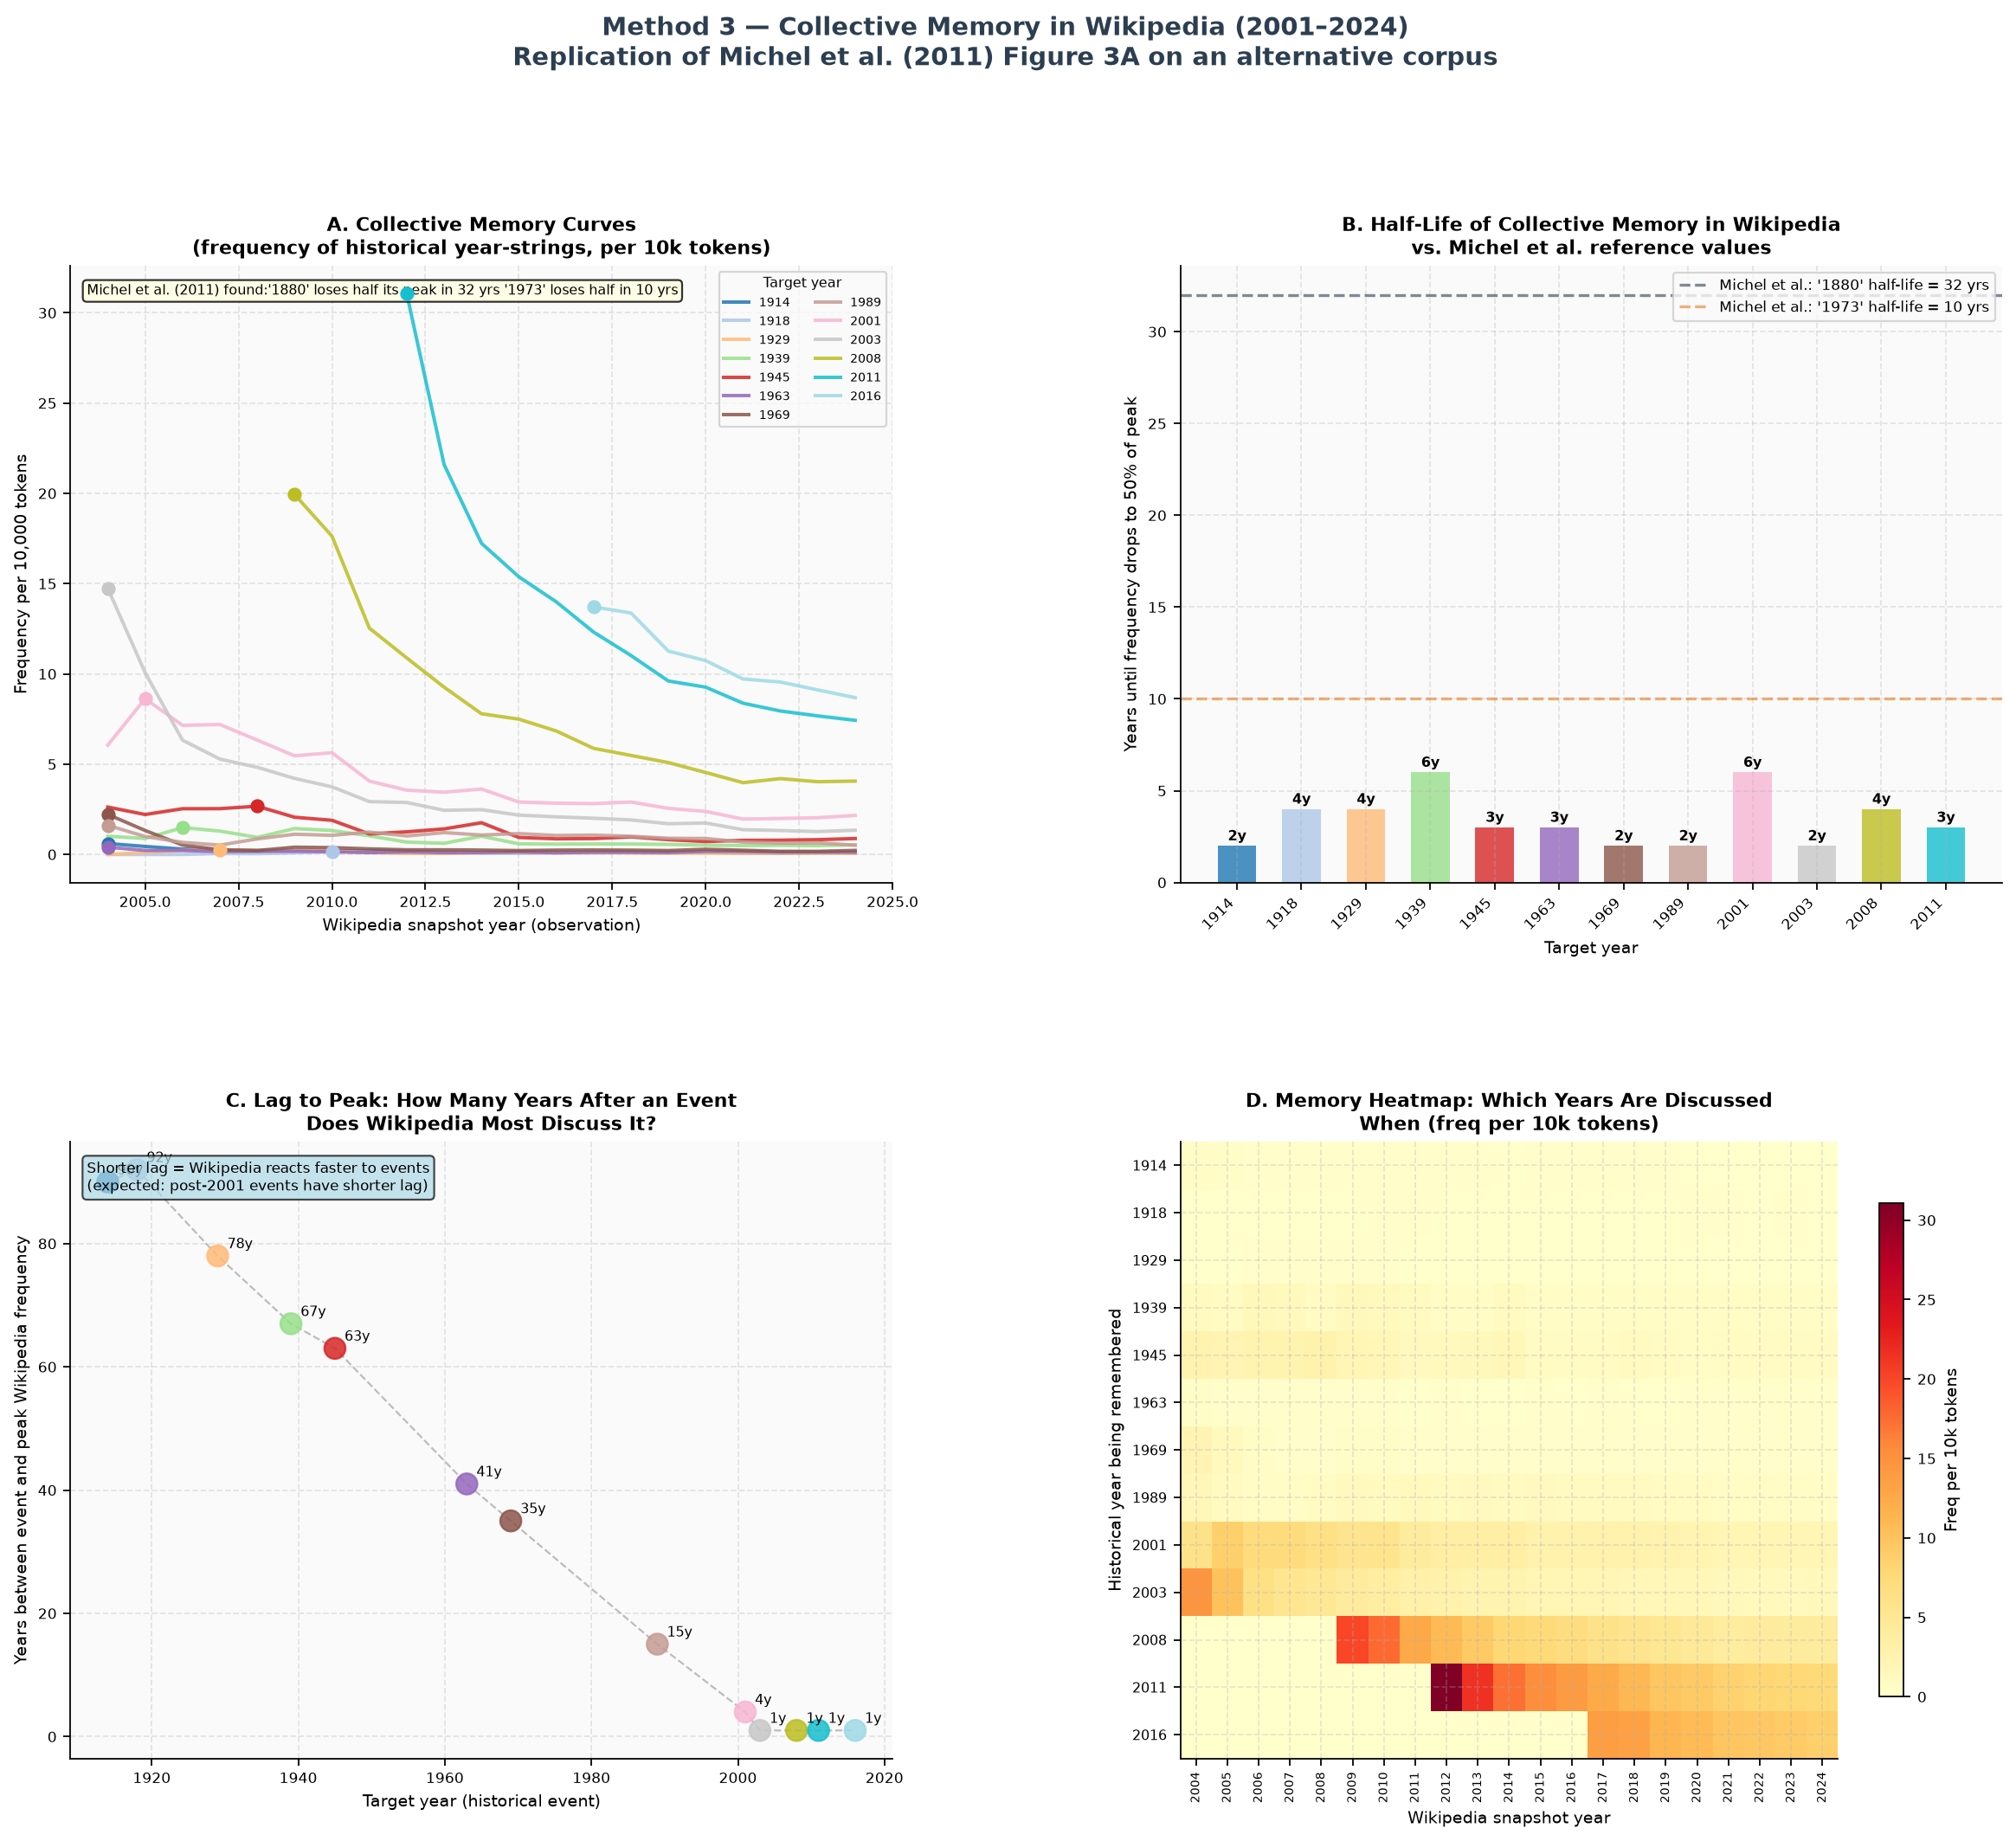
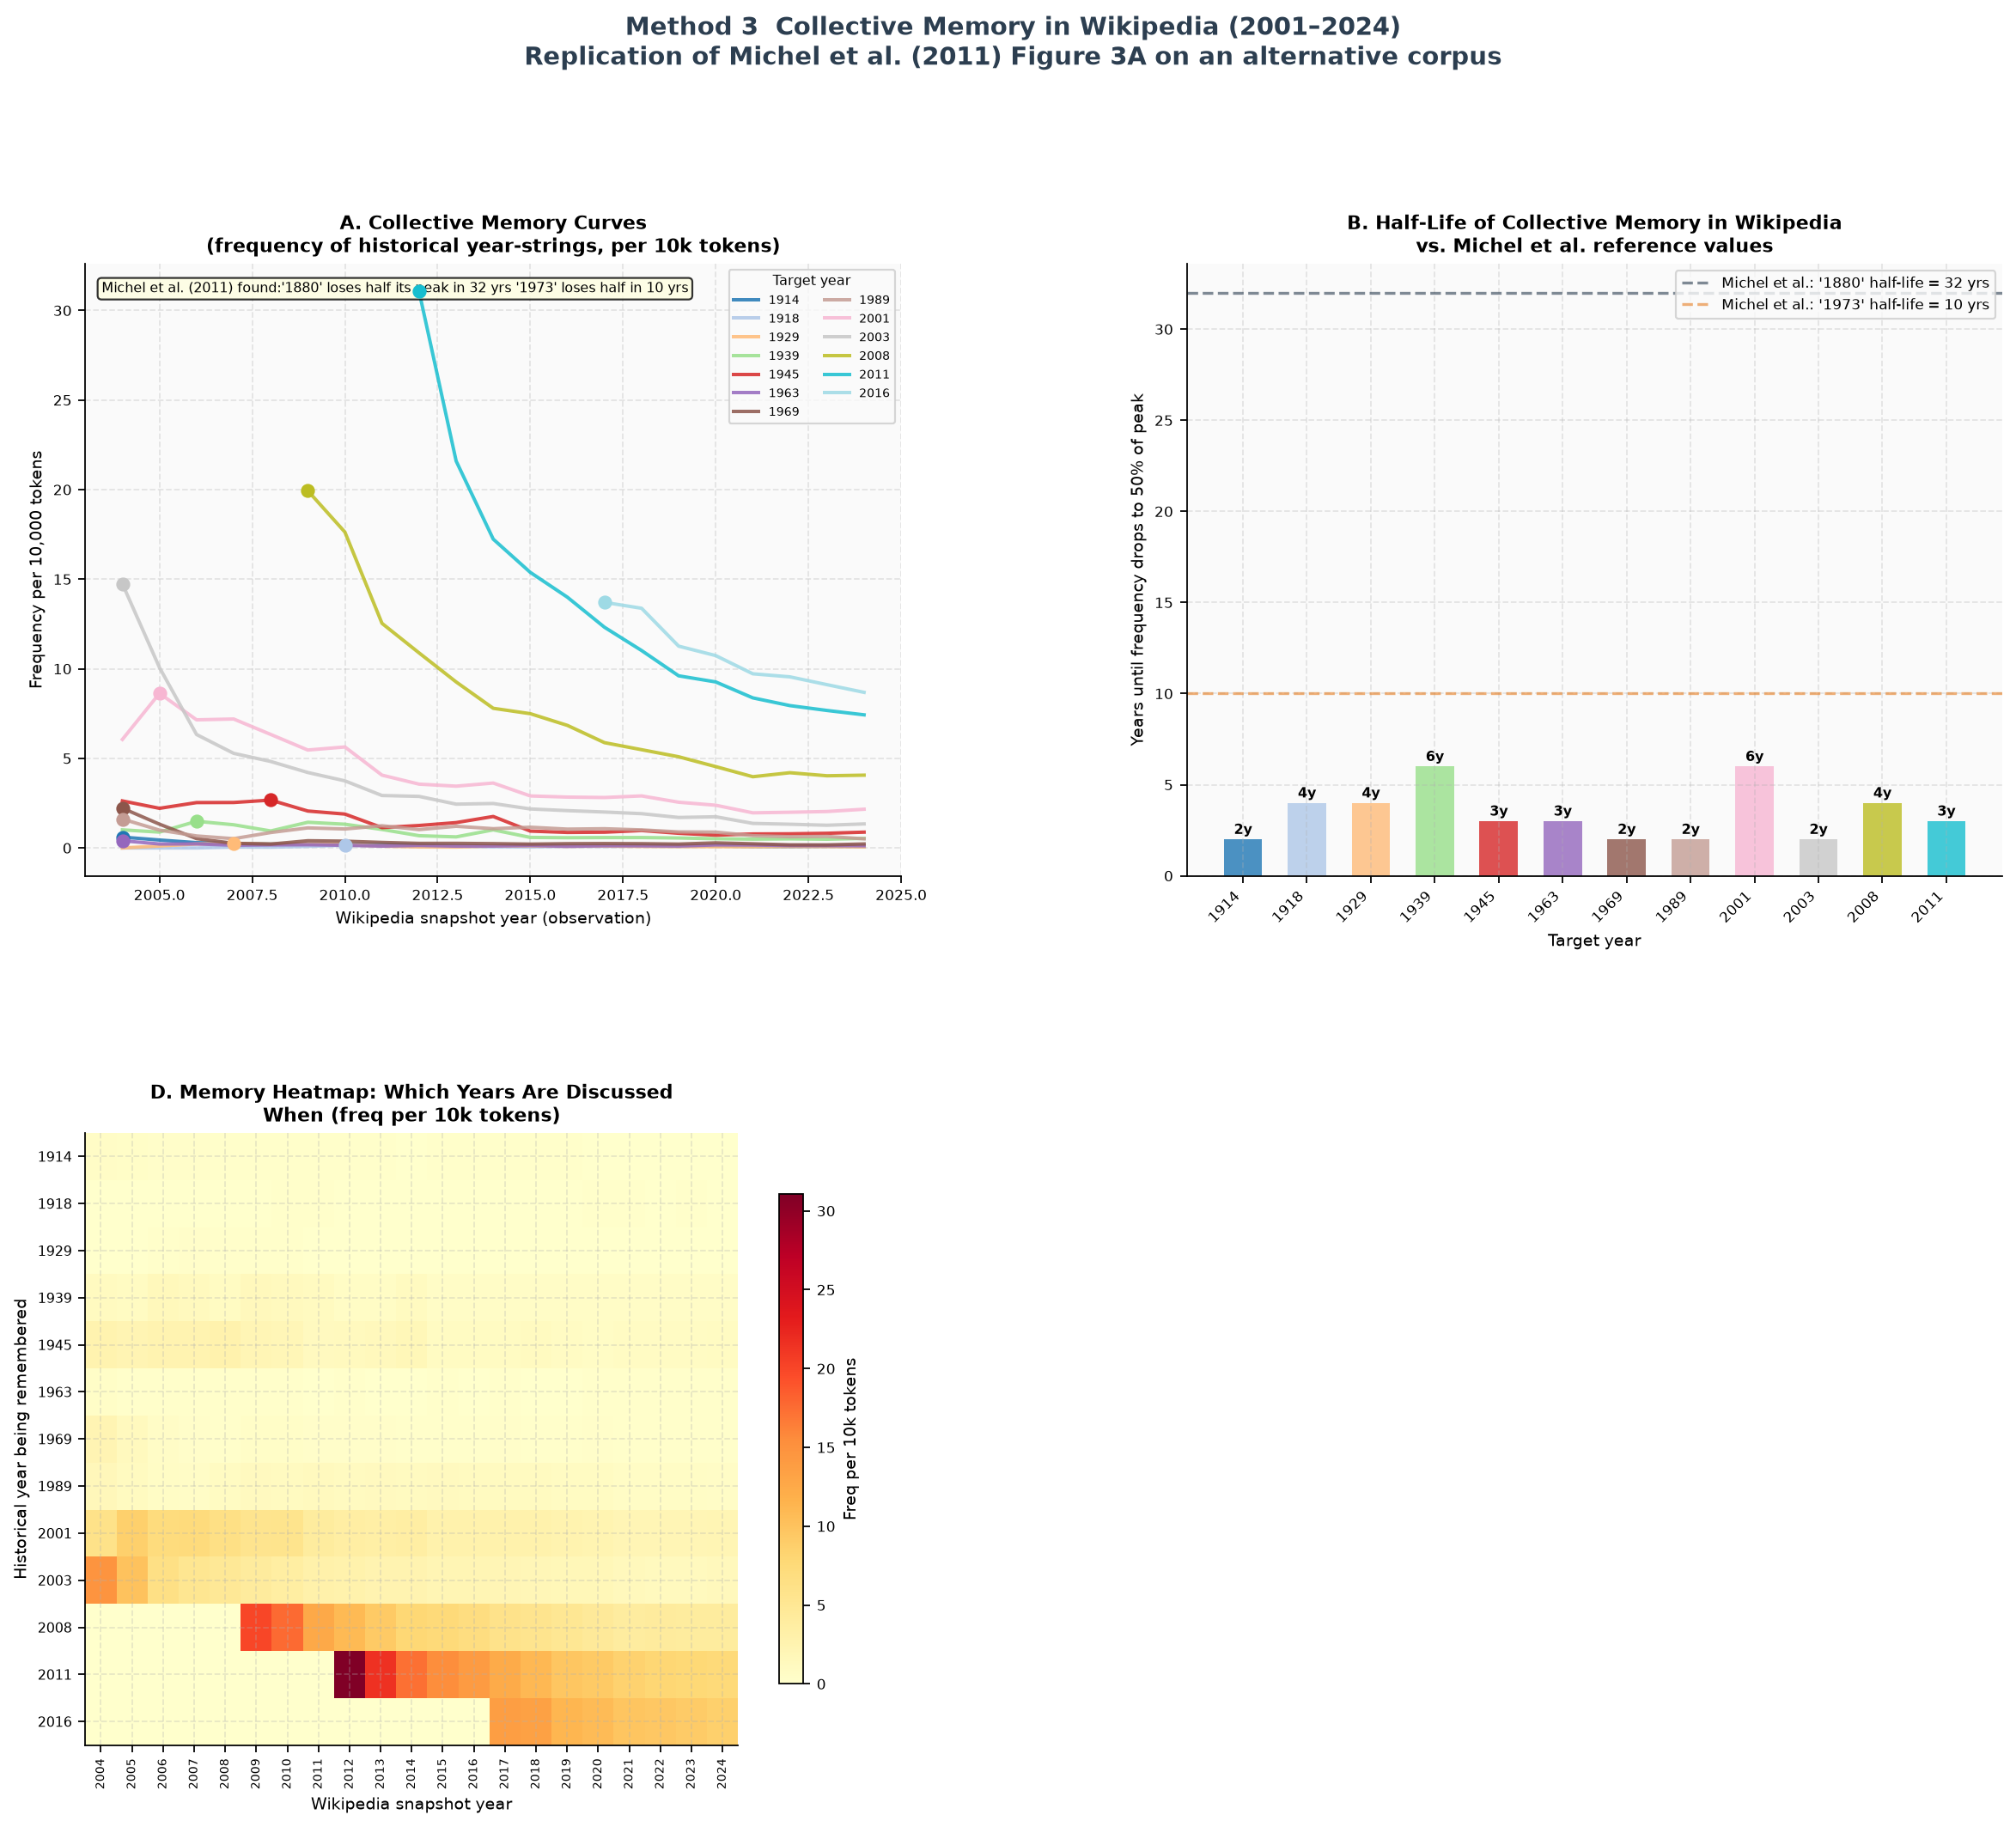
commit

diff --git a/7-projectdoc/descriptionMethhods.md b/7-projectdoc/descriptionMethhods.md
@@ -1,0 +1,8 @@
+### Methods 
+#### Method 3: Collective Memory
+The results were immediate and clear. Wikipedia does not forget the way printed books do, and Figure 2 shows exactly how the forgetting pattern differs.
+Panel A reveals two distinct behaviours depending on how recent the target year is. Older historical years such as 1914, 1918, 1929, and 1945 appear as flat, low-frequency lines running horizontally across the entire observation window. They are consistently present but never prominent, sitting at roughly 1 to 2 occurrences per 10,000 tokens throughout 2004 to 2024. Recent years behave entirely differently. The year 2011 produced the sharpest peak in the dataset, reaching over 30 occurrences per 10,000 tokens around 2012 to 2013 before declining gradually. The year 2001 peaked early and stabilised rather than disappeared. This contrast between flat old-year lines and peaked recent-year curves is the central finding of this panel, and it has a structural explanation. Articles about World War I or the Great Depression were written years before our observation window began and changed very little after that. Articles about 2011 or 2008 were actively created and expanded in the years immediately following those events, producing the visible peak, and then stabilised as editorial attention moved elsewhere.
+Panel B makes the comparison with Michel et al. precise. Every measurable half-life in our corpus falls between 2 and 6 years, far below Michel et al.'s reference values of 32 years for "1880" and 10 years for "1973," shown as dashed lines at the top of the panel. This looks like dramatically faster forgetting. But the mechanism is completely different. In Google Books, a declining half-life means that fewer authors across society chose to write about a year as time passed. In Wikipedia, a half-life of 2 to 6 years means that editors reorganised or rewrote article sections, removing or restructuring the sentences that contained those date references. The formula is identical. What it measures is not.
+Panel C adds the most theoretically productive finding of this method. The lag between a historical event and its peak Wikipedia frequency decreases sharply for more recent events. Events from 1914 and 1918 reached their peak Wikipedia discussion 67 to 78 years after they occurred. Events from the 2000s peaked within 1 to 4 years. This directly parallels Michel et al.'s observation that cultural adoption and attention accelerate over time. Here, however, the driver is structural rather than social. Wikipedia simply did not exist before 2001, so earlier events entered the corpus only as retrospective references written by editors who already knew the full historical outcome, producing a very different kind of attention curve from events that unfolded in real time as Wikipedia was being written.
+Panel D gives the full picture as a heatmap. The darkest cells, representing the highest mention frequency, cluster around 2001, 2008, and 2011 in the years immediately following those events. Earlier target years like 1914 and 1929 appear only as faint persistent background colour across all observation years. This is exactly the editorial inertia argument made visible: recent events produce bursts of active editorial attention that eventually calm down, while distant events produce a low stable presence that no one particularly maintains but no one removes either.
+Taken together, the four panels point to the same conclusion. The collective memory method transfers to Wikipedia but answers a different question. Michel et al. measured how long society chose to remember. In a living document corpus the same method measures how long editors chose not to edit. These are not the same phenomenon, and recognising the difference is the methodological contribution this experiment makes. The full analysis is available in the project notebook (see culturomics_M3_FIXED.ipynb at github.com/AimBtlv/research-computational_linguistic).